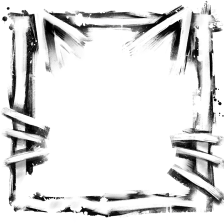
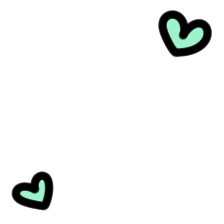
reoder

Changed region(s): [[0.0, 0.0, 1.0, 0.9688], [0.5625, 0.1875, 0.5938, 0.25]]

diff --git a/about.html b/about.html
@@ -59,14 +59,14 @@
       <br/>
       <div align="center">
         <img src="https://faering.carrd.co/assets/images/gallery10/b7a7d6df.gif">
-        <h3>My Favs</h3>
+        <h3><img src="/assets/kaijismall.gif"><br/>My Favs</h3>
       </div>
       <br/>
       <div class="row-wrapper row-wrapper-spaced">
         <div class="wrapper">
-          <div class="img-border-wrap" id="fav-leo">
-            <img class="img-border-content" src="/assets/leo.png">
-            <img class="img-border-border" src="/assets/border1.webp">
+          <div class="img-border-wrap" id="fav-kaiji">
+            <img class="img-border-content" src="/assets/kaiji.gif">
+            <img class="img-border-border" src="/assets/border4.png">
           </div>
         </div>
         <div class="wrapper">
@@ -82,9 +82,9 @@
           </div>
         </div>
         <div class="wrapper">
-          <div class="img-border-wrap" id="fav-kaiji">
-            <img class="img-border-content" src="/assets/kaiji.gif">
-            <img class="img-border-border" src="/assets/border4.png">
+          <div class="img-border-wrap" id="fav-leo">
+            <img class="img-border-content" src="/assets/leo.png">
+            <img class="img-border-border" src="/assets/border1.webp">
           </div>
         </div>
       </div>
